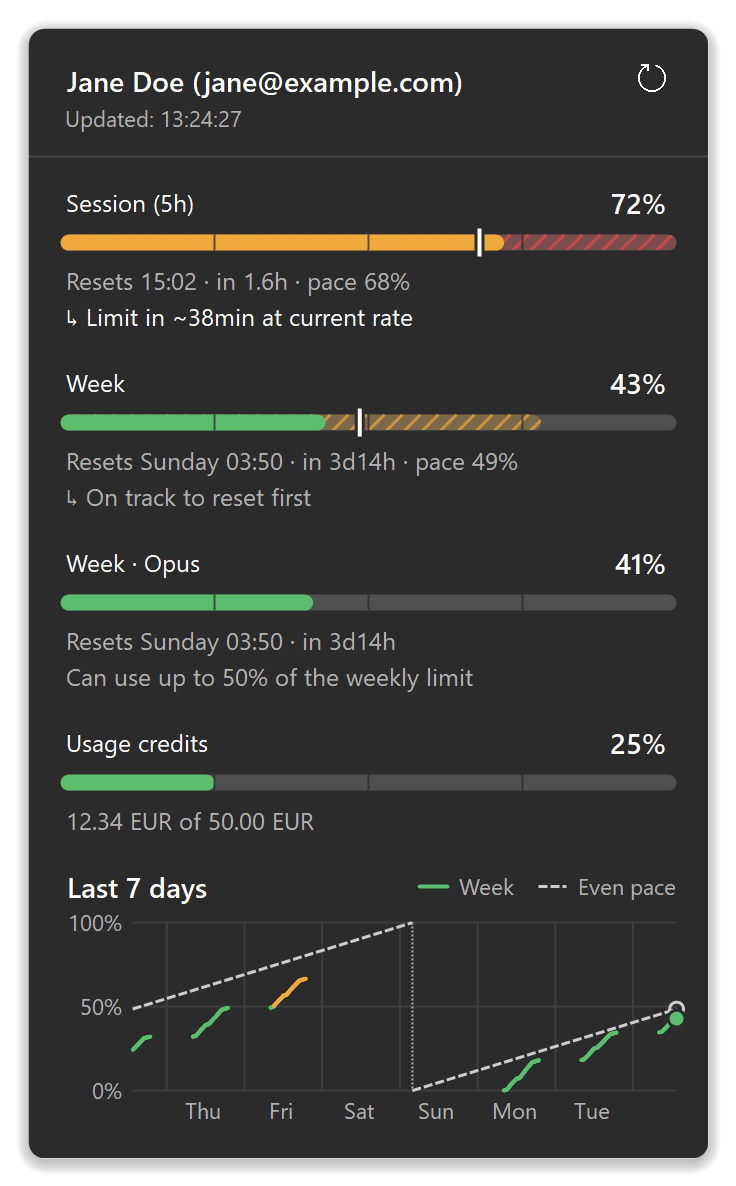
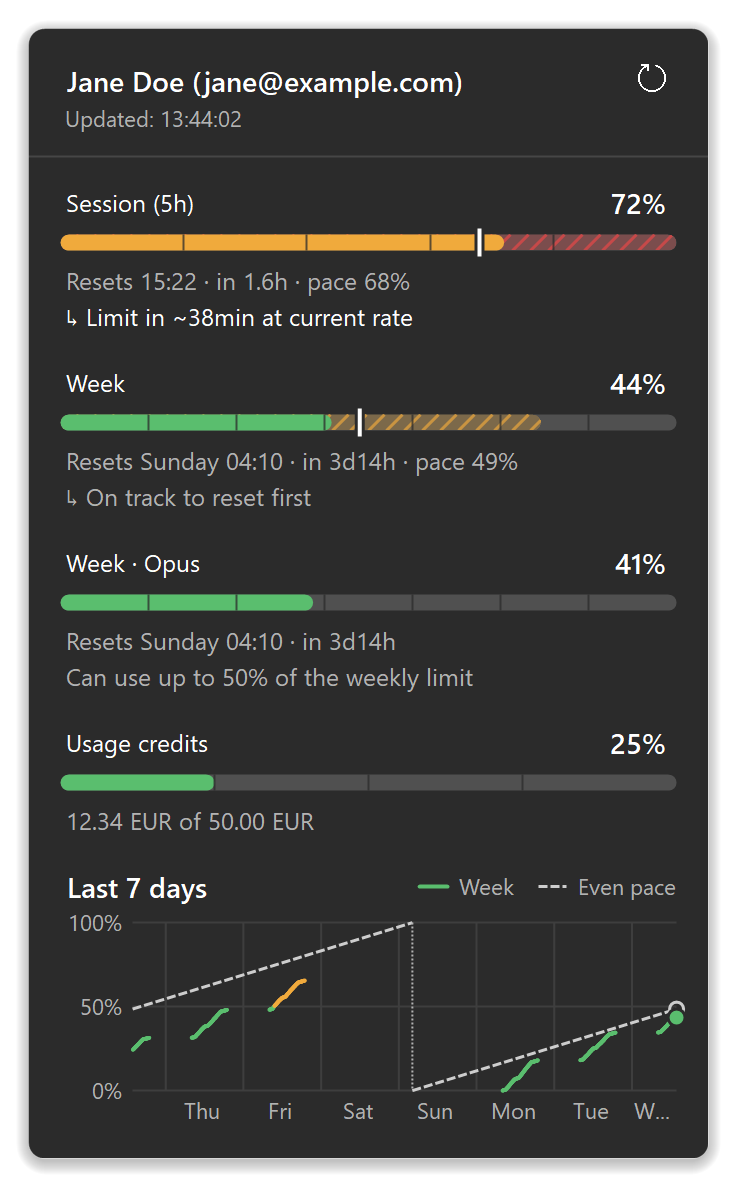
Adjust ticks of bars in flyout to hours/days

diff --git a/AIQuota/UsageFlyout.cs b/AIQuota/UsageFlyout.cs
@@ -455,7 +455,7 @@ internal sealed class UsageFlyout : Form
         y = DrawTitleRow(g, Strings.FlyoutSessionTitle, $"{snapshot.SessionPercent}%", left, y, width);
         DrawBar(g, new RectangleF(left, y, width, S(8f)), snapshot.SessionPercent, _state.SessionNotStarted,
             paceFraction: _state.ShowPaceMarker ? sessionPace : null,
-            projectedPercent: _state.SessionForecast.ProjectedPercent);
+            projectedPercent: _state.SessionForecast.ProjectedPercent, sections: UsageWindows.SessionHours);
         y += S(8f) + S(6f);
         var sessionDetail = _state.SessionNotStarted || snapshot.SessionResetsAt is not { } sessionReset
             ? Strings.FlyoutSessionNotStarted
@@ -472,7 +472,7 @@ internal sealed class UsageFlyout : Form
         y = DrawTitleRow(g, Strings.FlyoutWeekTitle, $"{snapshot.WeeklyPercent}%", left, y, width);
         DrawBar(g, new RectangleF(left, y, width, S(8f)), snapshot.WeeklyPercent, outlineOnly: false,
             paceFraction: _state.ShowPaceMarker ? pace : null,
-            projectedPercent: _state.WeeklyForecast.ProjectedPercent);
+            projectedPercent: _state.WeeklyForecast.ProjectedPercent, sections: UsageWindows.WeekDays);
         y += S(8f) + S(6f);
         if (snapshot.WeeklyResetsAt is { } weeklyReset)
         {
@@ -521,7 +521,8 @@ internal sealed class UsageFlyout : Form
         foreach (var limit in limits)
         {
             y = DrawTitleRow(g, Strings.LimitLabel(limit), $"{limit.RoundedPercent}%", left, y, width);
-            DrawBar(g, new RectangleF(left, y, width, S(8f)), limit.RoundedPercent, outlineOnly: false, paceFraction: null);
+            DrawBar(g, new RectangleF(left, y, width, S(8f)), limit.RoundedPercent, outlineOnly: false, paceFraction: null,
+                sections: SectionsFor(limit.Group));
             y += S(8f) + S(6f);
 
             if (limit.ResetsAt is { } reset)
@@ -567,7 +568,9 @@ internal sealed class UsageFlyout : Form
     /// tick that sticks out a little above and below the bar, and the forecast's <paramref
     /// name="projectedPercent"/> as a dimmed, hatched extension of the fill (see <see
     /// cref="DrawProjection"/>).</summary>
-    private void DrawBar(Graphics? g, RectangleF rect, int percent, bool outlineOnly, double? paceFraction, double? projectedPercent = null)
+    /// <param name="sections">How many equal parts the scale ticks divide the bar into (see
+    /// <see cref="SectionsFor"/>).</param>
+    private void DrawBar(Graphics? g, RectangleF rect, int percent, bool outlineOnly, double? paceFraction, double? projectedPercent = null, int sections = 4)
     {
         if (g is null)
             return;
@@ -619,7 +622,7 @@ internal sealed class UsageFlyout : Form
             }
         }
 
-        DrawScaleTicks(g, rect, outlineOnly);
+        DrawScaleTicks(g, rect, outlineOnly, sections);
 
         if (paceFraction is { } pace)
         {
@@ -635,26 +638,39 @@ internal sealed class UsageFlyout : Form
         }
     }
 
-    /// <summary>Scale ticks at 25%, 50% and 75%: thin, pixel-aligned gaps across the bar in
-    /// the flyout's background colour, so they read the same over the fill, the projection
-    /// and the empty track. Thinner and fainter than the pace marker and the greyscale
-    /// palette's notch, which they mustn't be confused with. On an outline-only bar (session
-    /// not started) there's nothing to cut a gap into, so they're drawn in the outline's
-    /// colour instead.</summary>
-    private void DrawScaleTicks(Graphics g, RectangleF rect, bool outlineOnly)
+    /// <summary>Scale ticks dividing the bar into <paramref name="sections"/> equal parts:
+    /// thin, pixel-aligned gaps across the bar in the flyout's background colour, so they read
+    /// the same over the fill, the projection and the empty track. Thinner and fainter than
+    /// the pace marker and the greyscale palette's notch, which they mustn't be confused with.
+    /// On an outline-only bar (session not started) there's nothing to cut a gap into, so
+    /// they're drawn in the outline's colour instead.</summary>
+    private void DrawScaleTicks(Graphics g, RectangleF rect, bool outlineOnly, int sections)
     {
+        if (sections < 2)
+            return;
+
         var color = outlineOnly
             ? (_usage.TrackOutline is null ? _palette.Track : _usage.NotStarted)
             : Color.FromArgb(190, _palette.Background);
         var width = Math.Max(1f, MathF.Round(S(1f)));
 
         using var brush = new SolidBrush(color);
-        foreach (var fraction in new[] { 0.25f, 0.5f, 0.75f })
+        for (var i = 1; i < sections; i++)
         {
-            var x = MathF.Round(rect.X + rect.Width * fraction - width / 2f);
+            var x = MathF.Round(rect.X + rect.Width * i / sections - width / 2f);
             g.FillRectangle(brush, x, rect.Y, width, rect.Height);
         }
     }
+
+    /// <summary>Scale sections of a bar: one per hour of the session window, one per day of
+    /// the weekly window (both from <see cref="UsageWindows"/>, so they follow if a window's
+    /// length changes), quarters for everything else (credits, unknown windows).</summary>
+    private static int SectionsFor(string group) => group.ToLowerInvariant() switch
+    {
+        "session" => UsageWindows.SessionHours,
+        "weekly" => UsageWindows.WeekDays,
+        _ => 4,
+    };
 
     /// <summary>The usage the window would reach by its reset at the current rate: drawn from
     /// the bar's start (the real fill covers the first part) to <paramref name="projected"/>,

diff --git a/AIQuota/UsageWindows.cs b/AIQuota/UsageWindows.cs
@@ -7,6 +7,14 @@ internal static class UsageWindows
     public static readonly TimeSpan Session = TimeSpan.FromHours(5);
     public static readonly TimeSpan Week = TimeSpan.FromDays(7);
 
+    /// <summary>Whole hours in a session (5) - e.g. the flyout's session bar has one scale
+    /// section per hour.</summary>
+    public static int SessionHours => Math.Max(1, (int)Math.Round(Session.TotalHours));
+
+    /// <summary>Whole days in a week (7) - e.g. the flyout's week bar has one scale section
+    /// per day.</summary>
+    public static int WeekDays => Math.Max(1, (int)Math.Round(Week.TotalDays));
+
     /// <summary>Elapsed fraction (0-1) of the 5-hour session that resets at <paramref
     /// name="sessionResetsAt"/>, at <paramref name="time"/> - i.e. where usage would be if the
     /// session's quota were spread evenly over the 5 hours.</summary>

diff --git a/README.md b/README.md
@@ -46,9 +46,10 @@ Left-click the icon for a flyout next to the taskbar, like the Windows volume an
 flyouts. It shows:
 
 - your account, when the data was last updated, and a refresh button
-- the session, week and (when your plan has them) credit usage as large bars with scale
-  ticks at 25%, 50% and 75%, and the reset time as both clock time and countdown
-  (`Resets 14:30 · in 1.6h`)
+- the session, week and (when your plan has them) credit usage as large bars, and the
+  reset time as both clock time and countdown (`Resets 14:30 · in 1.6h`). Scale ticks
+  divide the session bar into its 5 hours and the week bar into its 7 days (so 20% and
+  about 14% of the quota each), and the credit bar into quarters
 - a [pace marker](#weekly-pace-marker) on the week bar, and one on the session bar for an
   even spread over the 5 hours (`Resets 14:30 · in 1.6h · pace 68%`; not shown before a
   session starts)
